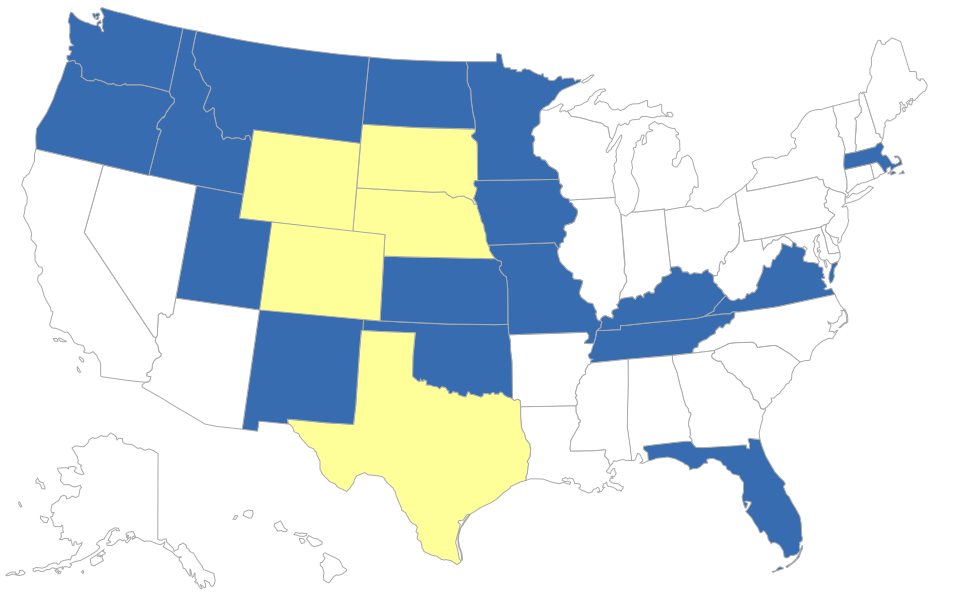
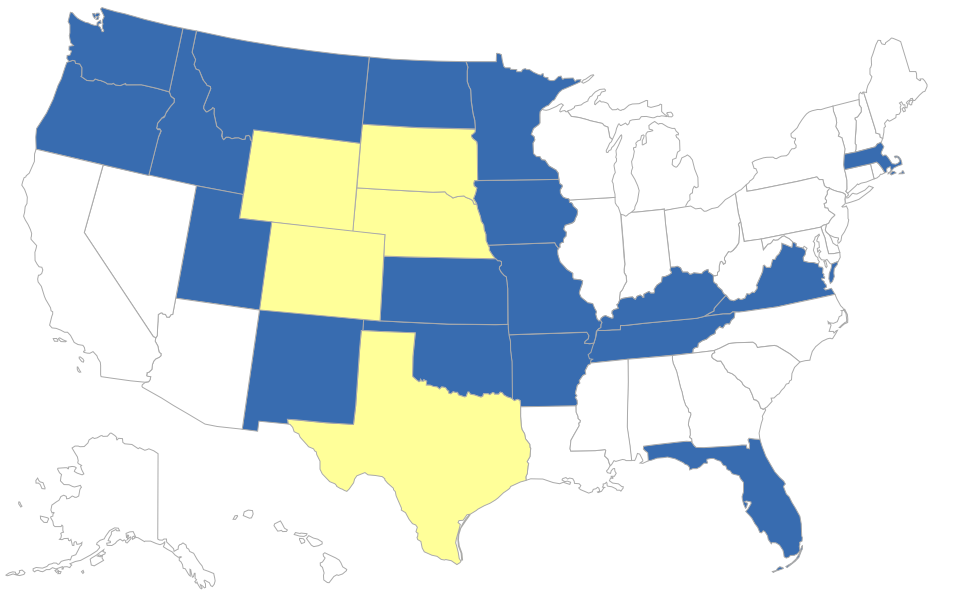
arkansas!

Changed region(s): [[0.5141, 0.5464, 0.635, 0.6981]]

diff --git a/z/usa/map-parser.py b/z/usa/map-parser.py
@@ -1,6 +1,6 @@
 from bs4 import BeautifulSoup
 
-travel = [{'name':'cody','lived':['TX','WY','SD','NE','CO'],'visited':['OR','WA','ID','MT','ND','MN','UT','NM','OK','KS','IA','MO','MA','TN','FL','VA','KY']},{'name':'laurel','lived':['TX','WY','SD','NE','CO','FL'],'visited':['WA','OR','ID','MN','OK','IA','KS','TN','KY','GA','AL','MO','NM']},{'name':'julian','lived':['TX','WY','SD','NE'],'visited':['MN','OK','IA','CO','KS','NM','MO']},{'name':'lucy','lived':['SD','NE'],'visited':['WY','MN','IA','OK','KS','MO']}]
+travel = [{'name':'cody','lived':['TX','WY','SD','NE','CO'],'visited':['OR','WA','ID','MT','ND','MN','UT','NM','OK','KS','IA','MO','MA','TN','FL','VA','KY','AR']},{'name':'laurel','lived':['TX','WY','SD','NE','CO','FL'],'visited':['WA','OR','ID','MN','OK','IA','KS','TN','KY','GA','AL','MO','NM','AR']},{'name':'julian','lived':['TX','WY','SD','NE'],'visited':['MN','OK','IA','CO','KS','NM','MO','AR']},{'name':'lucy','lived':['SD','NE'],'visited':['WY','MN','IA','OK','KS','MO','AR']}]
 
 for person in travel:
     svg = open('states.svg', 'rb').read()
